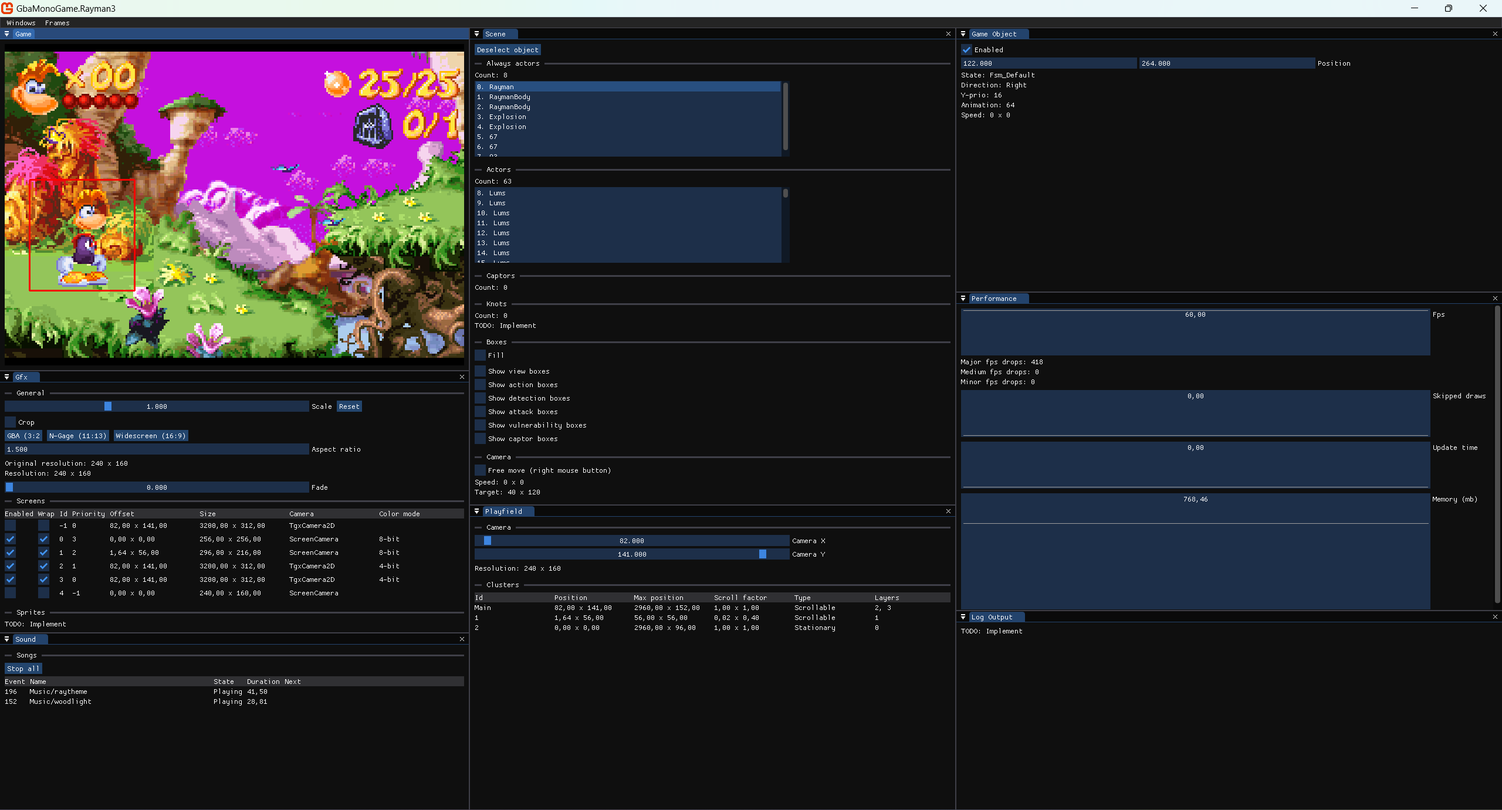
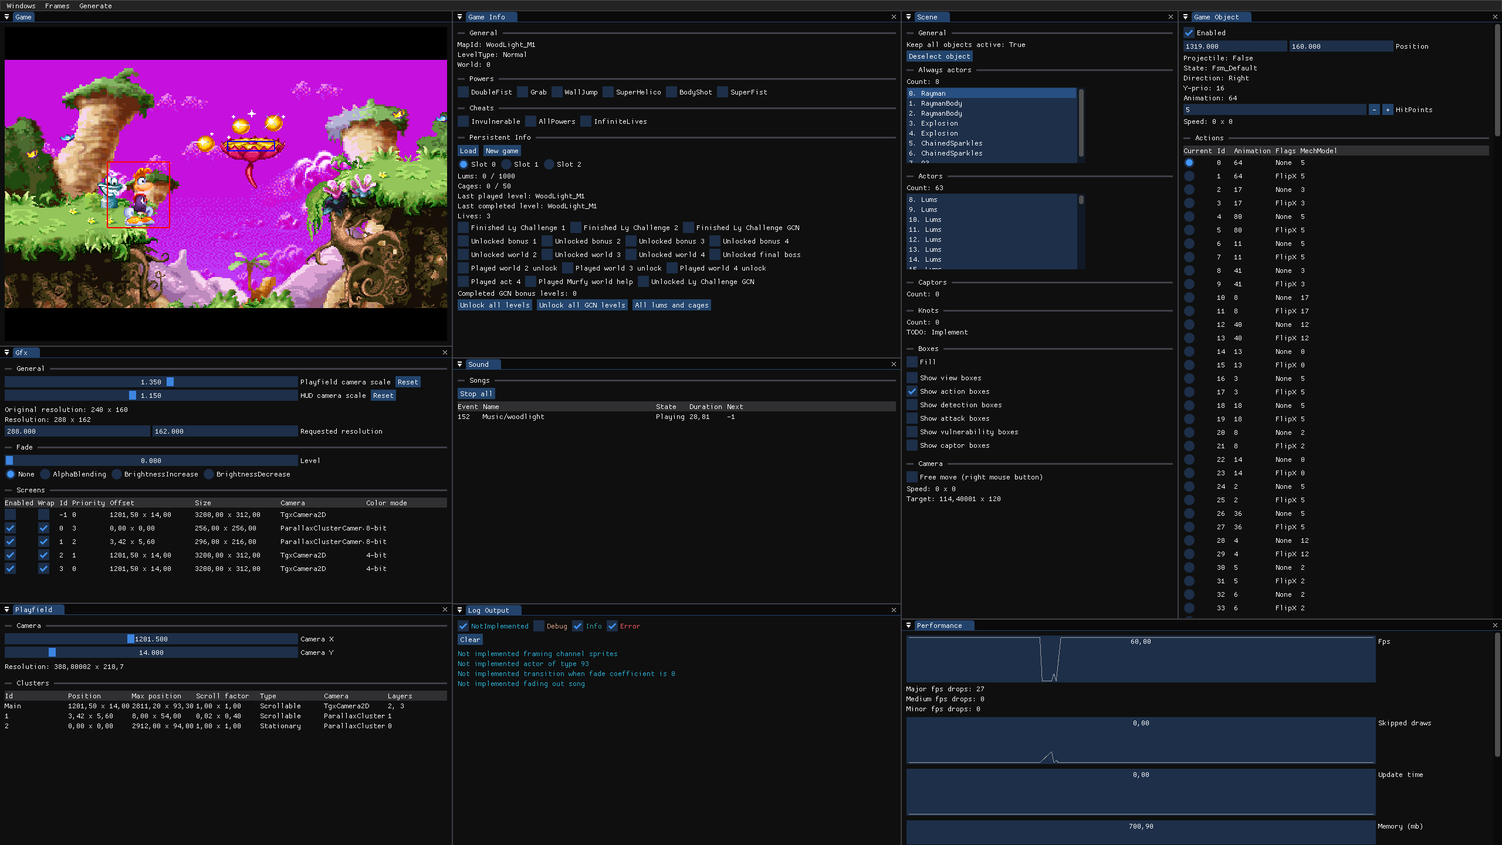
Rewrite readme, create separate documentation file, update images

diff --git a/gbaengine/documentation.md b/gbaengine/documentation.md
@@ -1,0 +1,127 @@
+# Engine documentation
+The original game uses [Ubisoft's GbaEngine](https://raymanpc.com/wiki/en/GbaEngine). It was originally developed by Ubisoft Milan for the GBA game *Rainbow Six - Rogue Spear* and written in C. The engine was based on their original GBC engine (which was written in assembly), with several of the tools from it initially being reused before new ones were developed. The engine ended up mainly being used by Ubisoft Milan, Ubisoft Montreal and Ubisoft Shanghai, with each of the different studios making their own changes to it. This has caused there to be three separate branches of the engine which got updated separately from each other. Rayman 3 uses Ubisoft Montreal's engine, which this document focuses on.
+
+Several late-cycle GBA games of this engine were also released on the Nintendo DS in an updated version of the engine. Later games would be released exclusively on the Nintendo DS and also included full 3D support. Leftover developer text seems to indicate that this updated engine was part of the Onyx engine, although the connection to it is unclear.
+
+## Engine structure
+This is the structure of the original engine, as seen in the version of it used by Rayman 3. Later versions, and ones in different branches have several differences.
+
+```
+├───GbaCommon
+│   ├── GbaSDK
+│   └── GbaStdLib
+├───GbaSimilar
+│   ├── GbaAnimation
+│   ├── GbaTileGraphics
+│   ├── Gba2DPlatform
+│   └── Gba3d
+└───GbaSpecific
+    └── Rayman2
+```
+
+Mockups of the source code file structures for all dated Rayman 3 prototypes, as well as other known prototypes for the same engine, have been made under [structure](structure).
+
+### GbaSDK
+This project has reusable code for any GBA game, such as display drivers, a graphics engine for allocating tiles in an optimized way and network code for multiplayer.
+
+It also includes the storage system used by this engine. All of the main assets for a game are stored as resource blocks in a data table. Each resource has a list of dependencies, which are references to additional resources. [BinarySerializer.Ubisoft.GbaEngine](https://github.com/BinarySerializer/BinarySerializer.Ubisoft.GbaEngine) is being used to deserialize this data from the ROM.
+
+Additionally the `FrameManager` is located here. This manages the main game loop, which in term is determined by the current `Frame` instance. A Frame is a class which provides a `Step` function, which is called once per frame. It also has the `Init` and `UnInit` functions for when switching the current Frame instance.
+
+### GbaStdLib
+This project mainly provides a memory manager for allocating data and sound code for playing audio.
+
+### GbaAnimation
+Here the animation player code is located, as well as classes for managing sprites in VRAM, such as `AnimationSpriteManager` and `AnimationPaletteManager`.
+
+Each animation instance is managed by an `AnimatedObject` class instance. Additionally there are several variants of this class which provide different features, such as affine rendering, hit boxes and displacement vectors.
+
+### GbaTileGraphics
+This project provides the `Playfield` classes for rendering tile graphics, either in 2D (`TgxPlayfield2D`) or as Mode7 (`TgxPlayfieldMode7`). Each Playfield has a collection of game layers, which are either graphical tile layers or physical layers (for collision). Besides this, additional effects can be applied, such as animated tiles using an `AnimatedTileKit` and palette swapping. The latter is however not used in Rayman 3.
+
+There also exists camera classes for 2D (`TgxCamera2D`) and Mode7 (`TgxCameraMode7`) which handle scrolling the game layers. In 2D the layers are grouped into `Clusters`, each with a different scroll speed, thus allowing layers to produce a parallax scrolling effect.
+
+### Gba2DPlatform
+This project contains components for a 2D platformer, such as scenes, actors, knots and more.
+
+The main class is `Scene2D` which is generally used to contain a "level" in the game. This consists of a Playfield, a `CameraActor`, a collection of `GameObjects` and `Dialogs`. What follows is a description of each of these types.
+
+#### GameObjects
+Every `Scene` has a collection of GameObjects. These come in two different types, either as `Actors` or as `Captors`. 
+
+An actor is an object which has an `AnimatedObject` and a finite-state machine (`FSM`) for managing its state. They can inherit from different base classes which give them different properties. For example, an actor inheriting from `ActionActor` can use `Actions` defined in the game data, which in turn indicate which animation is to be played and optionally has a `MechModel` with movement data. The movement data is however only used if the actor inherits from `MovableActor`.
+
+Additionally, actors are grouped based on their life-time. `Normal actors` have defined activation zones, which in the game is determined by the `Knots`. These act as sectors, defining which objects are active where in the scene. `Always actors` are actors which remain active until manually disabled. These are usually used for objects which spawn from other objects.
+
+Besides this there are also special types of actors. The `main actor` is always defined as the first actor in the scene (as an always actor since it's always active), or as the first four actors if in multiplayer. In this game it is usually the `Rayman` actor, unless the level has a different play style. `Projectile actors` are actors which are spawned by other actors. An example is the water splash from the piranhas. These are usually defined as always actors, but not all the time.
+
+The other type of GameObject is a captor. This is an object which defines a collision box which triggers events when an actor collides with it. These usually involve enabling another object or playing a sound.
+
+#### CameraActor
+The `CameraActor` in each scene is responsible for managing the in-game camera and ultimately scroll the TgxCamera. There are different types of camera actors for different gameplay styles. For example the worldmap in Rayman 3 has a different implementation than the normal sidescroller levels. The same goes for the Mode7 levels.
+
+#### Dialogs
+Each scene has a collection of `Dialogs`. These are UI elements which display on top of the main game, such as the HUD, timers or the pause menu. When adding a dialog it can be set to display as a modal, thus deactivating the previously added ones. This is done for the pause menu.
+
+#### States and messages
+Most objects in the game, such as actors, dialogs and cameras, communicate by having a `ProcessMessage` function. This allows it to retrieve a message type, identified by an id, a sender and an optional parameter.
+
+Most objects also contain a finite-state machine (`FSM`) which runs each frame. This manages the current state the object and which behavior it should perform.
+
+### Gba3d
+This project provides support for real 3D rendering on the GBA, through software (since the GBA has no hardware support for 3D). There is a basic animation system accompanying it and a hierarchy system for meshes. In Rayman 3 this is used to render the spinning wheel in the credits. Besides this it doesn't appear to have been used in any other games.
+
+### Rayman2
+This is where the game-specific code is located, such as the levels, actors, dialogs, game info and more. The project is internally named "Rayman 2" since that's what the game started development as. This port however uses the name "Rayman 3" to avoid confusion.
+
+## Changes from the original code
+What follows are the most notable code changes which were made in this port.
+
+### Fewer singletons
+The original game relies on a lot of global singletons for instances of types such as `Scene2D`, `TgxPlayfield` and `GameInfo`. In the N-Gage version these have been replaced by a factory system where singleton instances have an ID and are retrieved by calling a function.
+
+In this port the way singletons are handled has been changed. The goal has been to reduce the amount of static properties to be able to separate the instance data between the different `Frame` instances. Making the classes static would also not always work due to inheritance (for example, `TgxPlayfield` can be of type `TgxPlayfield2D` or `TgxPlayfieldMode7`).
+
+Because of this instances which were originally singletons have been changed in different ways depending on how the different types are used. `Scene2D` and `TgxPlayfield` are now owned by the current `Frame` and passed in to methods as needed. The `GameInfo` class is made static and `JoyPad` has an underlying singleton instance of `SimpleJoyPad` which is accessed through static methods.
+
+### Floating-point arithmetic
+The GBA has no support for floating-point arithmetic. The way the game works around this is by using 32-bit fixed-point arithmetic instead, with a point position of 16.
+
+This has been changed in this port to instead use the `float` type in C#. This works better with MonoGame and allows for common types such as `Vector2` to be used. Additionally the game often has to cast its fixed-point values to standard integers which is not done in this port. Because of this there might be very slight gameplay changes due to value precision differences.
+
+### Improved smoothness
+Several minor changes have been made to improve the smoothness of animations and movements to make the game look better in a higher resolution.
+
+For example, if the game moves a sprite by 1 pixel every two frames then this port has it changed to moving by 0.5 pixels every frame. If this is set to be rendered in the original GBA resolution then there won't be a difference, but if rendering in a higher resolution then this half-pixel will scale to be one or more real pixels which the sprite moves to on this in-between frame, making it appear smoother.
+
+There are also other cases where the game limits the amount of work it does on a single frame to reduce lag. For example, when the game fades the screen by modifying the palettes it does so by every frame alternating between modifying the object and background palettes. In this port this is instead managed by modifying both palettes by half the original amount every frame.
+
+### Rendering
+Since the original game was developed for the GBA the rendering is handled very differently from how it would be in a modern engine. Data is loaded into VRAM, which can only hold a limited amount of data. Level objects have pre-calculated addresses for where they are to be loaded into VRAM during different parts of the level and graphics can be defined to either be loaded dynamically (when in use) or statically (once during load).
+
+Additionally, the game takes advantage of several features on the GBA to produce some of its effects. Level transitions are handled using windows, the clouds scrolling at different speeds in the background is done using vsync callbacks which occur after each scanline is drawn etc.
+
+Initially this port was set up to emulate the PPU on the GBA, and thus manually draw each frame pixel by pixel. This however came with major performance costs and would complicate high resolution rendering. Because of this it was later changed into rendering in a more conventional way using textures. Each GBA sprite is now a texture, most of which are created using lazy loading. If a sprite can be rendered with multiple palettes then a new texture is created for each palette.
+
+Certain effects might not be replicated exactly the same as on a GBA, such as affine sprite rendering and alpha blending, but the goal is to have it appear as similar as possible. In some cases, like when rotating sprites, this has the advantage of making them appear much clearer in higher resolutions.
+
+### V-SYNC
+In the original GBA version the game calls `vsync` whenever it waits for the frame to finish drawing on screen. This can be done at any point, but is in the majority of cases done inside of the Frame classes' `Init` and `Step` functions.
+
+In the N-Gage port this behavior was changed so that v-sync is managed by the main game loop. Similarly in this port it relies on MonoGame's `Update` method in the game class. This all assumes that each frame has the game either initializing a new Frame class or stepping an existing one. This will match the original GBA in the vast majority of cases, but there are unique cases, like when the game loads heavy data, where v-sync is originally called and thus might cause there to be a 1-frame difference in this port. This will not effect the gameplay in any way.
+
+### Naming conventions
+Most types and members have the same name as in the original GBA version, but there are also several cases where it's been changed. For example all French names have been translated to English, something which is usually the case for the actor classes. Short names have also been expanded (for example `FrameMngr` is now named `FrameManager`). State functions have also been renamed from the pattern of `FsmXXXStateFunction` (where "XXX" is the state name) to `Fsm_XXX` to improve readability. For example, `FsmPreInitStateFunction` is now named `Fsm_PreInit`.
+
+### Optional improvements
+Besides the code related changes there are also optional improvements which the player can toggle in the port. Due to these changing how parts of the game works it also means there are added checks for these throughout the game's code.
+
+### Other minor changes
+Various minor changes have been made to the code to modernize it in C# and reduce duplicate code. For example there is now a struct for `PhysicalType` (tile collision) which has helper properties for checking common things like if it's solid. This avoids having to match the value against a constant each time.
+
+Similarly there is now a class for each instance of a finite-state machine which handles things like changing the current state. This was most likely done using macros in the original GBA version. States can now also be null which avoids having to declare empty state functions.
+
+## Decompiling
+The engine is being recreated thanks to Ghidra allowing the original game's code to be decompiled. Both the GBA and N-Gage versions are being used to recreate the code, so that any differences between them can be correctly handled. The N-Gage version is also easier to decompile due to it having fewer compiler optimizations, such as no function inlining.
+
+There also exists various prototypes of GBA games using this engine which were compiled with assertions in the code. These assertions contain debug strings for if the assertions fail which are incredibly useful as they contain function names, variable names, source file paths and more. Thanks to this information we have a very good idea of how the original engine was structured and how things were named.

diff --git a/readme.md b/readme.md
@@ -1,93 +1,40 @@
 # Rayman 3 GBA port to MonoGame
-This project is a recreation of Rayman 3 GBA to [MonoGame](https://monogame.net), with the goal of porting the game to PC and other platforms. This is *not* a decompilation or source port, but rather a recreation of the game in C#. It is however heavily based on the original engine, attempting to keep much of the same structure as seen by decompiling the game using Ghidra. The goal is to have the game be functionally identical to the GBA game, with additional enhancements as options.
+This project is a recreation of the Game Boy Advance and N-Gage versions of Rayman 3 to [MonoGame](https://monogame.net), with the goal of porting the game to PC and other platforms. The original ROM is required to play the game since this project does not contain the game assets.
+
+This is not meant to be a traditional decompilation, but rather a recreation of the game in C#. However, the game code is written to be functionally identical to the original code and much of the same structure of the original engine is kept, as seen by decompiling the game using Ghidra.
 
 ![Title screen](img/title_screen.png)
+*The goal is to have the game be functionally identical to the original GBA game, while modernizing the code and including optional game enhancements.*
 
 ## GbaEngine
-The original game uses [Ubisoft's GbaEngine](https://raymanpc.com/wiki/en/GbaEngine), an engine which was written in C and built from Ubisoft's GBC engine. The engine is object-oriented, which makes it work well for a C# re-creation, and consists of several, mostly independent, modules.
+The original game uses [Ubisoft's GbaEngine](https://raymanpc.com/wiki/en/GbaEngine), an engine which was written in C and built from Ubisoft's Game Boy Color engine. The engine is object-oriented, which makes it work well for a C# re-creation, and consists of several, mostly independent, modules.
 
-This is the structure of the original engine, as seen in the version of it used by Rayman 3. Later versions, and ones in different branches (developed by different Ubisoft studios) have several changes.
+See the [documentation](gbaengine/documentation.md) for more information on the engine, what code changes this port has made and other technical details.
 
-#### GbaCommon
-- **GbaSDK** - reusable code for any GBA game, such as display drivers, a graphics engine for allocating tiles in an optimized way and network code for multiplayer.
-- **GbaStdLib** - mainly a memory manager for allocating memory and sound code for playing music.
+## Enhancements
+This version contains several optional enhancements over the original game. The most notable is that the game can be played in high resolution and widescreen. This provides a much better experience on modern devices as you're no longer limited to the small screen of the GBA.
 
-#### GbaSimilar
-- **GbaAnimation** -  different types of animated objects which can be played with the animation player as well as palette and sprite managers.
-- **GbaTileGraphics** - playfield, along with different types of game layers, and cameras for scrolling.
-- **Gba2DPlatform** - components for a 2D platformer, such as actors, captors, scenes, knots and more.
-- **Gba3d** - components for 3D rendering through software (only used in the game credits)
-
-#### GbaSpecific
-- **Rayman2** - game project
-
-Mockups of the source code file structures for all dated Rayman 3 prototypes, as well as other known prototypes for the same engine, have been made under [gbaengine/structure](gbaengine/structure).
-
-### ROM
-The majority of the game data in the ROM is stored as resource blocks in a data table. Each resource has a list of dependencies, which are additional resources that it links to. [BinarySerializer.Ubisoft.GbaEngine](https://github.com/BinarySerializer/BinarySerializer.Ubisoft.GbaEngine) is being used to deserialize this data from the ROM.
-
-### Frame
-A `frame` is the object which handles the current game loop. Only one frame instance can be executing at a time and is managed by the `FrameManager` class. For example, the intro and main menu are two examples of different frames. The same goes for each level.
-
-### Playfield
-A `playfield` is a collection of different game layers. These can be tile graphics or physical layers (for collision). Layers are grouped into `clusters` which are what the camera scrolls. Each cluster has a different scroll speed, thus allowing layers to produce a parallax scrolling effect. Besides this, additional effects can be applied such as animated tiles and palette swapping.
-
-### Scene
-Each level in the game consists of a scene. A scene mainly consists of a playfield, a `camera actor`, a collection of `game objects` and `dialogs`. A dialog is a some form of UI element that renders to the screen, such as the HUD and pause menu.
-
-#### Actor
-An actor is a game object which has an animated object and a finite-state machine (FSM) to execute code for its current state. Actors can inherit from different base classes which give it different properties. For example, an actor inheriting from `ActionActor` can use actions defined in the game data, which in turn indicate which animation is to be played and optionally has movement data. The movement data is however only used if the actor inherits from `MovableActor`.
-
-Additionally, actors are grouped based on their life-time. `Normal actors` have defined activation zones, which in the game is determined by the knots, which act as sectors, defining which objects are active where in the level.
-
-`Always actors` are actors which remain active until manually disabled.
-
-Besides this there are also special types of actors. The `main actors` are always defined as the first actors in the level (as always objects). In this game it is usually Rayman, unless the level has a different play style.
-
-`Projectile actors` are actors which are spawned by other actors. An example is the water splash from the piranhas. These are usually defined as always objects, but not always.
-
-#### Captor
-A captor is an object which defines a collision box. When an actor collides with the box it triggers events, which usually involve enabling another object or playing a sound.
-
-### States and messages
-Most objects in the game communicate by having a `ProcessMessage` function. This allows it to retrieve a specific type of message, identified by an id, and optional parameters. Most objects also contain a finite-state machine (FSM) which runs each frame. This determines the current state the object is in and which behavior it should perform.
-
-## MonoGame port
-This MonoGame port of the engine is still early in development. There are some noticeable changes from the original engine, such as relying less on singleton instances and using floats instead of fixed-point integers.
-
-### Rendering
-Since the original game was developed for the GBA the rendering is handled very differently from how it would be in a modern engine. Data is loaded into VRAM, which can only hold so much data. Level objects have pre-calculated addresses for where they are to be loaded into vram during different parts of the level and graphics can be defined to either be loaded dynamically (when in use) or statically (once during load).
-
-Additionally, the game takes advantage of several features on the GBA to produce some of its effects. Level transitions are handled using windows, the clouds scrolling at different speeds in the background is done using vsync callbacks which occur after each scanline is drawn etc.
-
-Initially this project was set up to manually draw each game frame pixel by pixel and thus emulate how the GBA handles drawing. This however came with major performance costs and would complicate allowing higher resolution. This was thus later changed into rendering using textures. Each sprite is now a texture, as well as the backgrounds. Certain effects might not be replicated exactly the same as on a GBA, such as affine sprite rendering and alpha blending, but the goal is to have it appear as similar as possible.
+Besides graphical enhancements there are various quality of life improvements and optional gameplay tweaks which can be toggled. There is also an assortment of bonus features, such as built-in achievements and more.
 
 ![Zoomed out example](img/zoom_out.png)
-*The goal is to allow the game to render in higher resolution and different aspect ratios*
-
-### Debug mode
-![Debug mode](img/debug_mode.png)
-Pressing the `tab` key while playing will toggle the debug mode. This is set up using ImGUI and is meant to help debugging the game.
-
-## Decompiling
-The engine is being recreated thanks to Ghidra allowing the original game's code to be decompiled. Both the GBA and N-Gage versions are being used to re-create the code, so that any differences between them can be correctly handled. The N-Gage version is also easier to decompile due to it having fewer compiler optimizations, such as no apparent function inlining.
-
-Various prototypes of games on this engine were compiled with assertions in the code, which contain debug strings for if the assertions fail. These are incredibly useful as they contain function names, variable names, source file paths and more. Thanks to this information we have a very good idea of how the engine was structured and how things were named.
+*The game can render in higher resolution and different aspect ratios.*
 
 ## Playing
+*NOTE: This port is still in development which is why there are no releases published. Most levels are not yet playable.*
+
 In order to play the game you will need to place your game ROMs in the `Games` folder, inside a sub-folder for each game. The name of the ROM file doesn't matter, as long as it has the correct file extension (.gba for GBA and .app for N-Gage). Additionally the N-Gage version requires a .dat file with the same name as the .app file.
 
 This is an example of a folder structure which will allow you to play both the GBA and N-Gage versions:
 
 ```
 ├───GBA
-│   ├── ROM.gba
+│   └── ROM.gba
 └───N-Gage
     ├── rayman3.app
     └── rayman3.dat
 ```
 
-The game saves are stored in .sav files with the same name as the ROM. The format is identical to that used by GBA emulators, and save files can thus be interchanged.
+The game saves are stored in `.sav` files with the same name as the ROM. The format is identical to that used by GBA emulators, and save files can thus be interchanged.
 
 ### Button mapping
 The button mapping will be made customizable in the future, along with controller support. As of now this is the current mapping:
@@ -115,6 +62,12 @@ The button mapping will be made customizable in the future, along with controlle
 Besides these you can also hold down `left shift` while resizing the window to maintain the aspect ratio.
 
 You can also launch the game with a BizHawk .bk2 TAS file which will have it play the button inputs from that.
+
+## Debug mode
+Pressing the `tab` key while playing will toggle the debug mode. This is set up using ImGUI and is meant to help debugging the game.
+
+![Debug mode](img/debug_mode.png)
+*The debug mode allows for visualization and editing of the current engine data and state.*
 
 ## Want to help?
 Do you want to help out? Feel free to contact me if so! This is currently a side project and might take a long time to finish, especially when being worked on by only myself.
